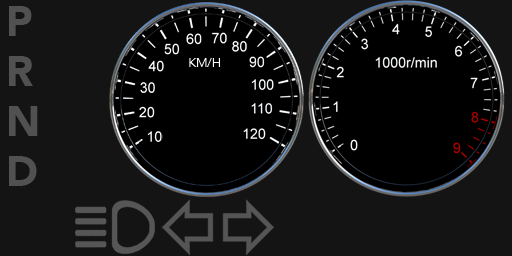
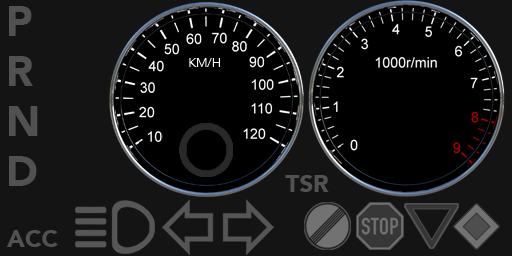
Preparing to display TSR signals on IC.
https://trello.com/c/66cI7JqN

diff --git a/UniDebAutomatedCar/src/com/unideb/bosch/instrumentclusterdisplay/VirtualDisplaySurface.java b/UniDebAutomatedCar/src/com/unideb/bosch/instrumentclusterdisplay/VirtualDisplaySurface.java
@@ -19,13 +19,17 @@ public class VirtualDisplaySurface extends JPanel {
 
 	private static final long serialVersionUID = 1;
 	private BufferedImage background, needle, r, n, d, p, rightindex, leftindex, headlight, steeringWheel;
+	private BufferedImage activespeedlimit_icon, nospeedlimit_icon, sixtyincity_icon, stop_icon, yield_icon, tsr_icon, acc_icon;
 	private int actual_KMH_Needle_Angle = 0;
 	private int actual_RPM_Needle_Angle = 0;
 	private int steeringWheel_Angle = 0;
 	private Rectangle backgroundRectangle, needleRectangle_KMH, needleRectangle_RPM;
 	private Rectangle r_Rectangle, n_Rectangle, d_Rectangle, p_Rectangle;
 	private Rectangle rightIndex_Rectangle, leftIndex_Rectangle, headlight_Rectangle, steeringWheel_Rectangle;
+	private Rectangle activespeedlimit_Rectangle, nospeedlimit_Rectangle, sixtyincity_Rectangle, stop_Rectangle, yield_Rectangle, acc_Rectangle, tsr_Rectangle;
 	private boolean show_R = true, show_N = true, show_D = true, show_P = true, show_RIndex = true, show_LIndex = true, show_Headlight = true;
+	private boolean show_nospeedlimit = true, show_sixtyincity = true, show_stop = true, show_yield = true, show_tsr = true, show_acc = true;
+	private int show_activespeedlimit = 50;
 
 	public VirtualDisplaySurface(AutomatedCar car) {
 		try {
@@ -39,6 +43,13 @@ public class VirtualDisplaySurface extends JPanel {
 			leftindex = ImageIO.read(new File("./ic_res/leftindex.png"));
 			headlight = ImageIO.read(new File("./ic_res/headl.png"));
 			steeringWheel = ImageIO.read(new File("./ic_res/steeringwheel.png"));
+			activespeedlimit_icon = ImageIO.read(new File("./ic_res/activespeedlimit.png"));
+			nospeedlimit_icon = ImageIO.read(new File("./ic_res/nospeedlimit.png"));
+			sixtyincity_icon = ImageIO.read(new File("./ic_res/sixtyincity.png"));
+			stop_icon = ImageIO.read(new File("./ic_res/stop.png"));
+			yield_icon = ImageIO.read(new File("./ic_res/yield.png"));
+			acc_icon = ImageIO.read(new File("./ic_res/accon.png"));
+			tsr_icon = ImageIO.read(new File("./ic_res/tsron.png"));
 		} catch (IOException ex) {
 			System.err.println(ex.getMessage() + " Error in virtual display! ImageIO.read");
 		}
@@ -53,6 +64,13 @@ public class VirtualDisplaySurface extends JPanel {
 		leftIndex_Rectangle = new Rectangle(0, 0, leftindex.getWidth(), leftindex.getHeight());
 		headlight_Rectangle = new Rectangle(0, 0, headlight.getWidth(), headlight.getHeight());
 		steeringWheel_Rectangle = new Rectangle(0, 0, steeringWheel.getWidth(), steeringWheel.getHeight());
+		activespeedlimit_Rectangle = new Rectangle(0, 0, activespeedlimit_icon.getWidth(), activespeedlimit_icon.getHeight());
+		nospeedlimit_Rectangle = new Rectangle(0, 0, nospeedlimit_icon.getWidth(), nospeedlimit_icon.getHeight());
+		sixtyincity_Rectangle = new Rectangle(0, 0, sixtyincity_icon.getWidth(), sixtyincity_icon.getHeight());
+		stop_Rectangle = new Rectangle(0, 0, stop_icon.getWidth(), stop_icon.getHeight());
+		yield_Rectangle = new Rectangle(0, 0, yield_icon.getWidth(), yield_icon.getHeight());
+		acc_Rectangle = new Rectangle(0, 0, acc_icon.getWidth(), acc_icon.getHeight());
+		tsr_Rectangle = new Rectangle(0, 0, tsr_icon.getWidth(), tsr_icon.getHeight());
 		this.setBackground(Color.black);
 		this.setVisible(true);
 	}
@@ -89,6 +107,63 @@ public class VirtualDisplaySurface extends JPanel {
 		gMatrix_RPM.rotate(Math.toRadians(actual_RPM_Needle_Angle), needleMidPoint_RPM_X, needleMidPoint_RPM_Y);
 		gMatrix_RPM.fillRect(needleLocationX_RPM, needleLocationY_RPM, needle.getWidth(), needle.getHeight());
 		//
+		if (this.show_acc) {
+			int iconLoc_X = 7;
+			int iconLoc_Y = 230;
+			acc_Rectangle.setLocation(iconLoc_X, iconLoc_Y);
+			TexturePaint acc_Paint = new TexturePaint(acc_icon, acc_Rectangle);
+			gMatrix_Icons.setPaint(acc_Paint);
+			gMatrix_Icons.fillRect(iconLoc_X, iconLoc_Y, acc_icon.getWidth(), acc_icon.getHeight());
+		}
+		if (this.show_tsr) {
+			int iconLoc_X = 285;
+			int iconLoc_Y = 175;
+			tsr_Rectangle.setLocation(iconLoc_X, iconLoc_Y);
+			TexturePaint tsr_Paint = new TexturePaint(tsr_icon, tsr_Rectangle);
+			gMatrix_Icons.setPaint(tsr_Paint);
+			gMatrix_Icons.fillRect(iconLoc_X, iconLoc_Y, tsr_icon.getWidth(), tsr_icon.getHeight());
+
+			if (this.show_activespeedlimit != 0) {
+				iconLoc_X = 179;
+				iconLoc_Y = 123;
+				activespeedlimit_Rectangle.setLocation(iconLoc_X, iconLoc_Y);
+				TexturePaint activespeedlimit_Paint = new TexturePaint(activespeedlimit_icon, activespeedlimit_Rectangle);
+				gMatrix_Icons.setPaint(activespeedlimit_Paint);
+				gMatrix_Icons.fillRect(iconLoc_X, iconLoc_Y, activespeedlimit_icon.getWidth(), activespeedlimit_icon.getHeight());
+			}
+			if (this.show_nospeedlimit) {
+				iconLoc_X = 304;
+				iconLoc_Y = 203;
+				nospeedlimit_Rectangle.setLocation(iconLoc_X, iconLoc_Y);
+				TexturePaint nospeedlimit_Paint = new TexturePaint(nospeedlimit_icon, nospeedlimit_Rectangle);
+				gMatrix_Icons.setPaint(nospeedlimit_Paint);
+				gMatrix_Icons.fillRect(iconLoc_X, iconLoc_Y, nospeedlimit_icon.getWidth(), nospeedlimit_icon.getHeight());
+			}
+			if (this.show_sixtyincity) {
+				iconLoc_X = 453;
+				iconLoc_Y = 203;
+				sixtyincity_Rectangle.setLocation(iconLoc_X, iconLoc_Y);
+				TexturePaint sixtyincity_Paint = new TexturePaint(sixtyincity_icon, sixtyincity_Rectangle);
+				gMatrix_Icons.setPaint(sixtyincity_Paint);
+				gMatrix_Icons.fillRect(iconLoc_X, iconLoc_Y, sixtyincity_icon.getWidth(), sixtyincity_icon.getHeight());
+			}
+			if (this.show_stop) {
+				iconLoc_X = 356;
+				iconLoc_Y = 203;
+				stop_Rectangle.setLocation(iconLoc_X, iconLoc_Y);
+				TexturePaint stop_Paint = new TexturePaint(stop_icon, stop_Rectangle);
+				gMatrix_Icons.setPaint(stop_Paint);
+				gMatrix_Icons.fillRect(iconLoc_X, iconLoc_Y, stop_icon.getWidth(), stop_icon.getHeight());
+			}
+			if (this.show_yield) {
+				iconLoc_X = 405;
+				iconLoc_Y = 203;
+				yield_Rectangle.setLocation(iconLoc_X, iconLoc_Y);
+				TexturePaint yield_Paint = new TexturePaint(yield_icon, yield_Rectangle);
+				gMatrix_Icons.setPaint(yield_Paint);
+				gMatrix_Icons.fillRect(iconLoc_X, iconLoc_Y, yield_icon.getWidth(), yield_icon.getHeight());
+			}
+		}
 		if (this.show_R) {
 			int iconLoc_X = 39 - 30;
 			int iconLoc_Y = 89 - 33;
